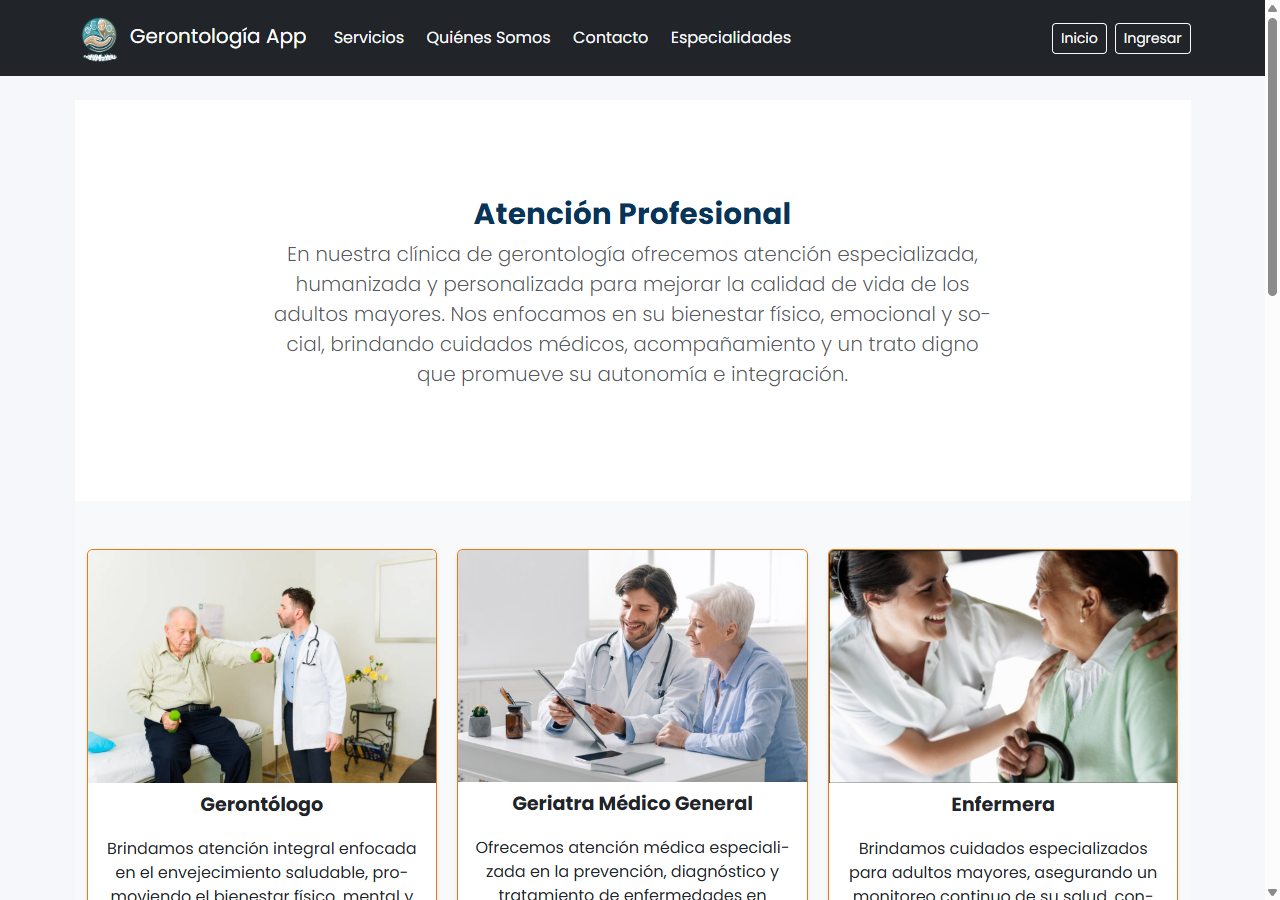
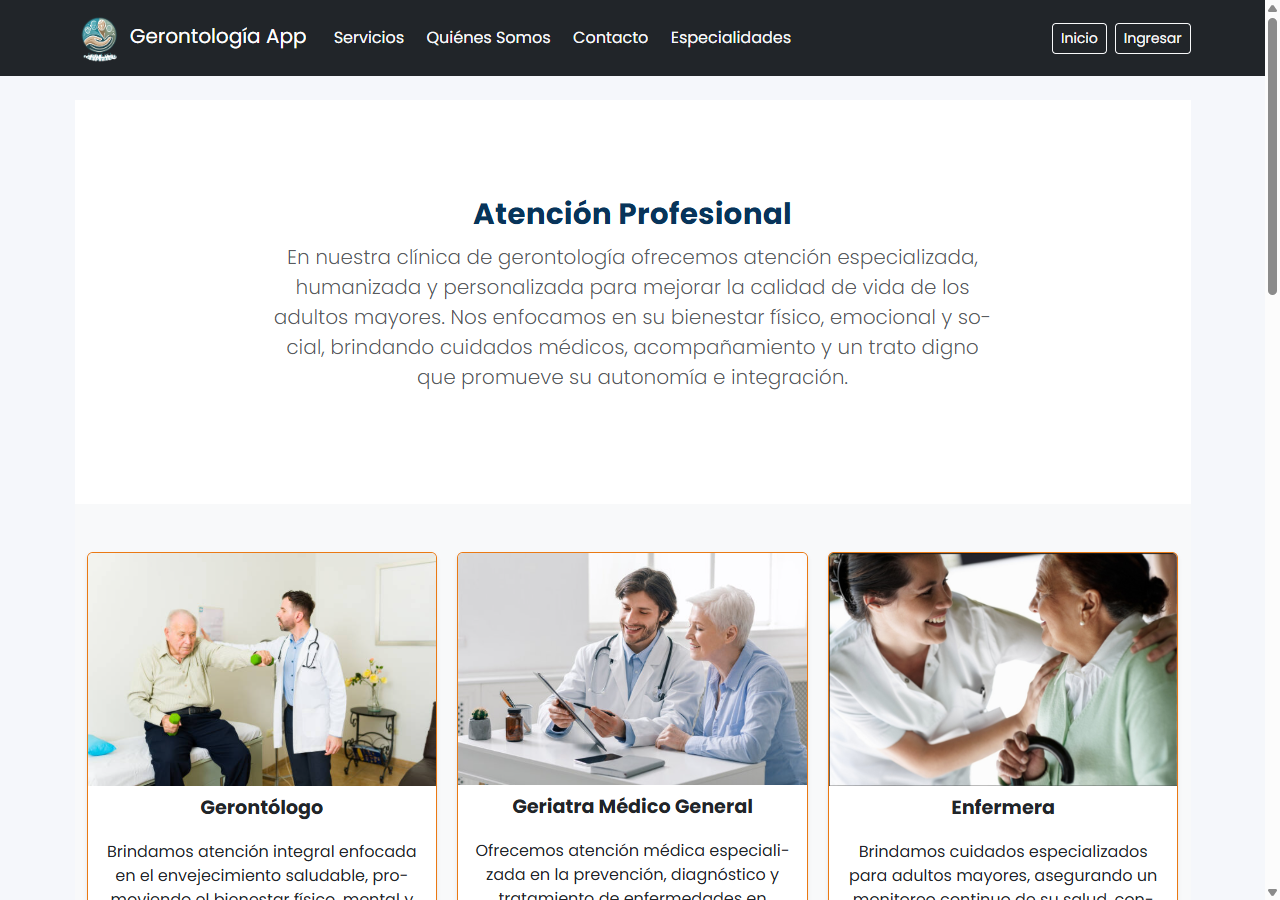
style(typography): refine section title rhythm and consistency

diff --git a/myapp/templates/index.html b/myapp/templates/index.html
@@ -77,7 +77,7 @@
             <div class="col-12">
                 <div class="p-5 border rounded shadow custom-bg custom-border d-flex align-items-center">
                     <div class="col-md-6">
-                        <h2 class="text-dark fw-bold">¿Cuál es la función de un Centro y cómo ayuda a las personas mayores?</h2>
+                        <h2 class="section-subtitle text-dark text-md-start">¿Cuál es la función de un Centro y cómo ayuda a las personas mayores?</h2>
                         <p class="text-dark">
                             Un Centro de Día es un espacio diseñado para brindar atención, acompañamiento y actividades recreativas a las personas mayores durante el día. Su principal objetivo es mejorar la calidad de vida de las personas mayores, promoviendo su autonomía, bienestar físico y emocional, y fomentando la socialización.
                         </p>
@@ -100,7 +100,7 @@
                 <img src="{% static 'img/atencion.jpg' %}" class="img-fluid rounded" alt="Imagen del hospital">
             </div>
             <div class="col-md-6">
-                <h2 class="text-dark fw-bold">Atención Profesional</h2>
+                <h2 class="section-subtitle text-dark text-md-start">Atención Profesional</h2>
     
                 <p>
                     Descubre nuestro directorio de expertos y contacta al profesional 
@@ -118,7 +118,7 @@
             <div class="col-12">
                 <div class="p-5 border rounded shadow custom-bg custom-border d-flex flex-column align-items-center text-center">
                     <div class="col-md-6">
-                        <h2 class="text text-dark fw-bold">Blog CG</h2>
+                        <h2 class="section-subtitle text-dark">Blog CG</h2>
                         <p class="text-dark">
                             El envejecimiento es una etapa natural de la vida que merece atención, respeto y cuidados especializados. 
                             En nuestro Centro, nos dedicamos a ofrecer una atención integral a las personas mayores,

diff --git a/myapp/static/css/global.css b/myapp/static/css/global.css
@@ -109,18 +109,33 @@ p {
 .section-page-title {
     font-size: clamp(1.5rem, 2.3vw, 2.2rem);
     font-weight: 700;
-    letter-spacing: 0.2px;
+    letter-spacing: 0.25px;
+    line-height: 1.22;
     color: var(--accent-1);
     text-align: center;
-    margin-bottom: 0.5rem;
+    margin: 0 0 0.65rem;
+    text-wrap: balance;
 }
 
 .section-subtitle {
     font-size: clamp(1.05rem, 1.5vw, 1.35rem);
     font-weight: 600;
+    line-height: 1.35;
+    letter-spacing: 0.1px;
     color: #1f2937;
     text-align: center;
-    margin-bottom: 0.75rem;
+    margin: 0 0 0.9rem;
+    text-wrap: balance;
+}
+
+.section-eyebrow {
+    font-size: 0.9rem;
+    font-weight: 600;
+    letter-spacing: 0.08em;
+    text-transform: uppercase;
+    color: var(--muted);
+    text-align: center;
+    margin: 0 0 0.35rem;
 }
 
 /* Global responsive helpers */
@@ -230,5 +245,13 @@ table {
     .records-table,
     .history-table {
         font-size: 0.85rem;
+    }
+
+    .section-page-title {
+        margin-bottom: 0.45rem;
+    }
+
+    .section-subtitle {
+        margin-bottom: 0.65rem;
     }
 }

diff --git a/myapp/templates/contactenos.html b/myapp/templates/contactenos.html
@@ -24,7 +24,7 @@
         <div class="container mt-5 mb-5">
             <h2 class="section-subtitle">Tu contacto es importante</h2>
             <h2 class="section-subtitle">Escríbenos un mensaje</h2>
-            <h3 class="text-center fw-bold">Los campos con asterisco (*) son obligatorios.</h3>
+            <p class="section-eyebrow">Los campos con asterisco (*) son obligatorios.</p>
             <div class="row justify-content-center">
                 <div class="col-md-8">
                     <form>
